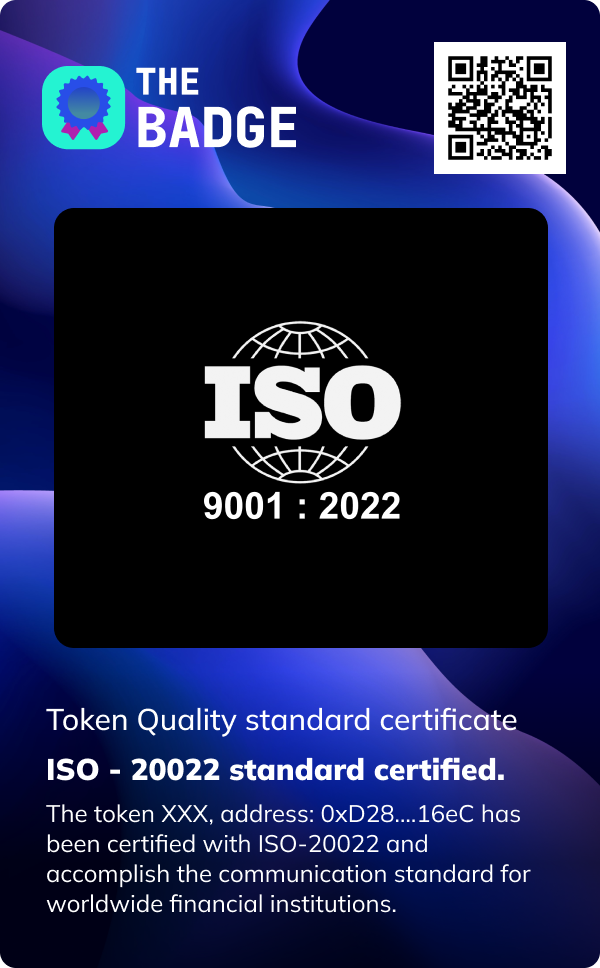
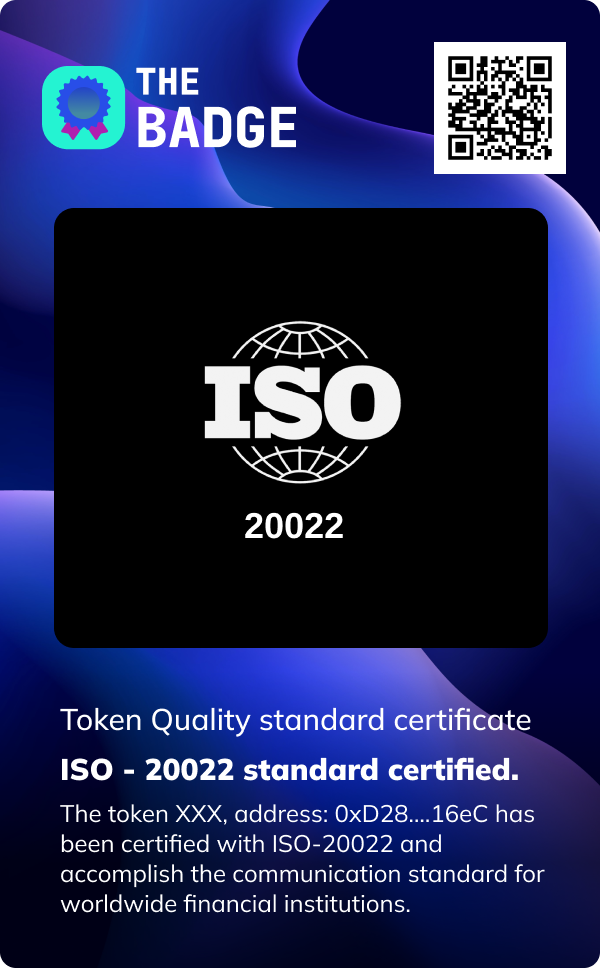
Update iso image Fix buttons Fix Lucia name

Changed region(s): [[0.06, 0.7128, 0.9, 0.9607], [0.33, 0.4959, 0.66, 0.5579]]

diff --git a/src/components/Presentation/index.tsx b/src/components/Presentation/index.tsx
@@ -1,10 +1,10 @@
 import { DISCORD_URL, PAPER_URL } from '@/src/constants';
 import { useGoogleAnalyticsBtn } from '@/src/hooks/useGoogleAnalytics';
+import { useIsMobile } from '@/src/hooks/useIsMobile';
 import { Box, Button, Stack, styled, Typography } from '@mui/material';
 import { useTranslation } from 'next-export-i18n';
 import { colors, IconDiscord } from 'thebadge-ui-library';
 import { BadgesPreview } from '../Commons/BadgesPreview';
-import { useIsMobile } from "@/src/hooks/useIsMobile";
 
 const TitleAndSwiperContainer = styled(Box)(({ theme }) => ({
   display: 'flex',
@@ -20,6 +20,7 @@ const TitleAndSwiperContainer = styled(Box)(({ theme }) => ({
 const StyledButton = styled(Button)(() => ({
   textTransform: 'none',
   padding: '9px 26px 9px 26px',
+  maxHeight: '48px',
 }));
 
 export const Presentation = () => {
@@ -43,7 +44,6 @@ export const Presentation = () => {
             variant={useIsMobile() ? 'h2' : 'h1'}
             component="h1"
             color={colors.white}
-            sx={{ wordWrap: 'break-word' }}
           >
             {t('presentation.title')}
           </Typography>

diff --git a/src/components/Team/index.tsx b/src/components/Team/index.tsx
@@ -129,7 +129,7 @@ const TEAM_MEMBERS: TeamMember[] = [
   },
   {
     avatar: '/avatars/luciaf.webp',
-    name: 'Lucia Fenoglio',
+    name: 'Lucía Fenoglio',
     description: 'Graphics Designer',
     contact: 'luciafenoglio',
     contactType: 'Behance',
